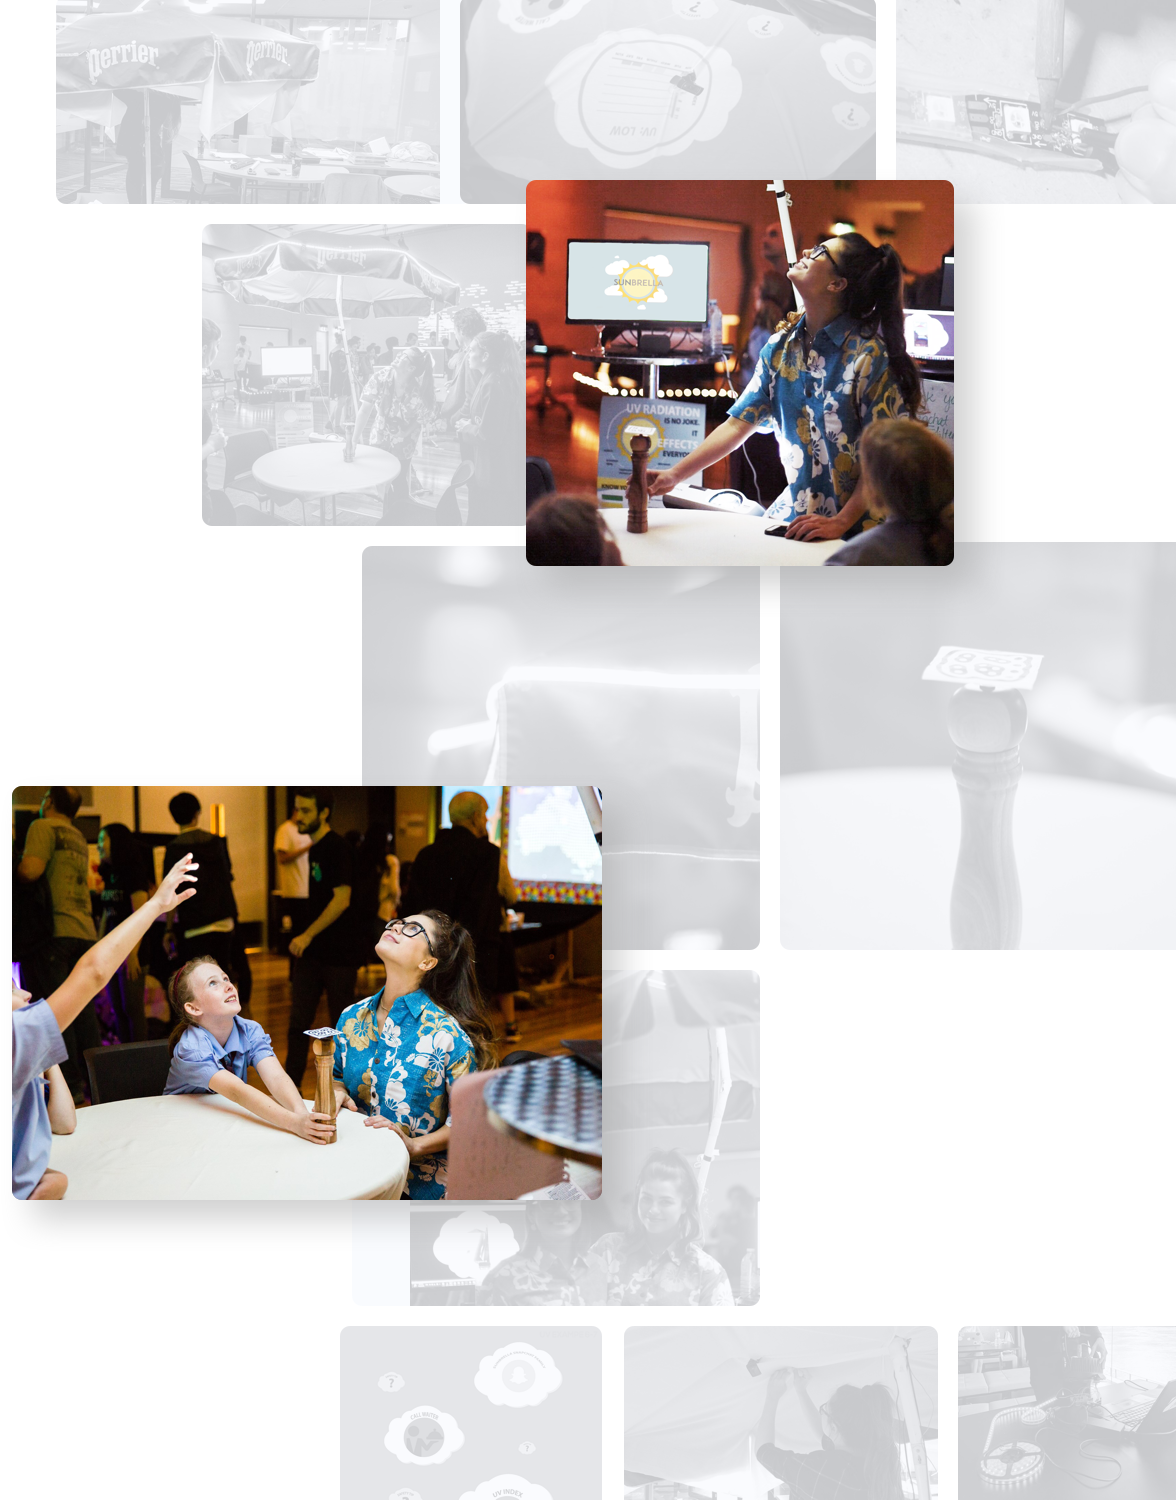
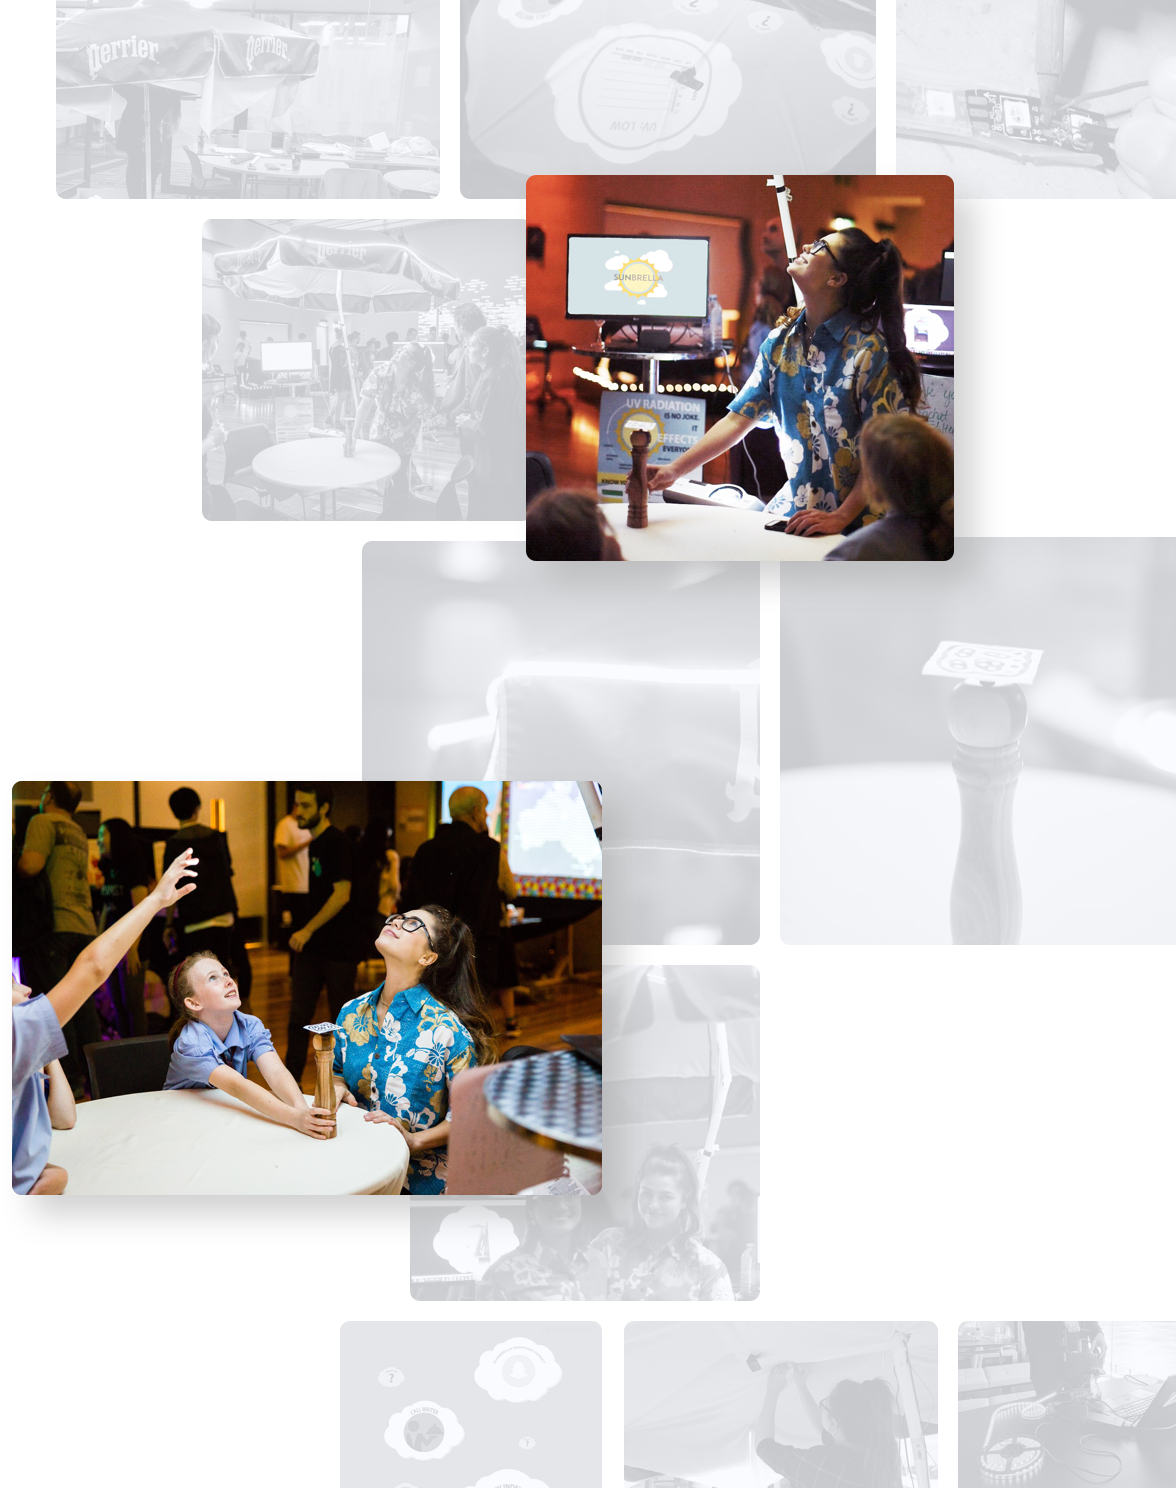
yaa

diff --git a/css/style.css b/css/style.css
@@ -342,16 +342,15 @@ footer {
 
 
 #scrunchGraphic {
-    margin-top: 125px;
-    margin-left: 90px;
+    margin-top: 155px;
+    float: right;
 }
 
 #scrunchGraphicGif {
     float: right;
-    width: 530px;
+    width: 522px;
     height: auto;
-    margin-top: -420px;
-    margin-right: 50px;
+    margin-top: -325px;
 }
 
 #sunbrellaImageOne {
@@ -694,7 +693,7 @@ footer {
     #scrunchGraphic{
         width: 310px;
         height: auto;
-        margin-top: 140px;
+        margin-top: 120px;
         margin-left: 0px;
         padding-left: 0px;
         float: right;
@@ -704,10 +703,10 @@ footer {
 
     #scrunchGraphicGif {
         float: right;
-        width: 320px;
+        width: 340px;
         height: auto;
-        margin-top: -270px;
-        margin-right: 55px;
+        margin-top: -260px;
+        margin-right: 35px;
     }
 
     #sunbrellaImageOne {
@@ -884,19 +883,19 @@ footer {
 
 
     #scrunchGraphic {
-        margin-top: 0px;
-        margin-left: 0px;
+        margin-top: 50px;
+        width: 300px;
+        margin-left: 40px;
         height: auto;
-        padding: 30px;
+        padding: 0px;
         float: none;
     }
 
     #scrunchGraphicGif {
         float: right;
-        width: 320px;
         height: auto;
-        margin-top: -280px;
-        margin-right: 45px;
+        margin-top: -218px;
+        margin-right: 15px;
     }
 
 

diff --git a/index.html b/index.html
@@ -51,8 +51,8 @@
 					</div>
 				</div>
 				<div class="rightImages">
-					<img id="scrunchGraphic" src="images/ScrunchGraphic.png" alt="logo" height="450">
-					<img id="scrunchGraphicGif" src="images/justmovingbits.gif" alt="gif" height="450">
+					<img id="scrunchGraphic" src="images/ScrunchGraphic.png" alt="logo" height="400">
+					<img id="scrunchGraphicGif" src="images/justmovingbits.gif" alt="gif" height="400">
 				</div>
 			</div>
 		</div> 
